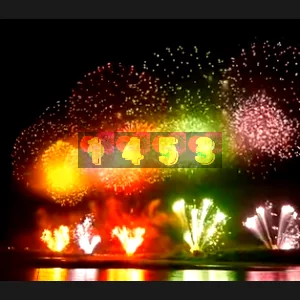
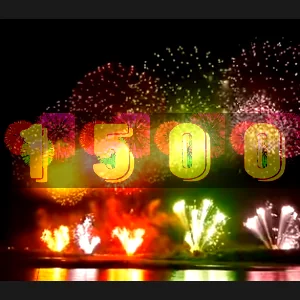
m

diff --git a/src/pages/2026/26-08/26-08-31/Clock.module.css b/src/pages/2026/26-08/26-08-31/Clock.module.css
@@ -30,7 +30,7 @@
 .digitalClock {
   position: relative;
   z-index: 1;
-  font-size: 12vmin;
+  font-size: 25vmin;
   font-family: 'Courier New', Courier, monospace;
   display: flex;
   align-items: center;
